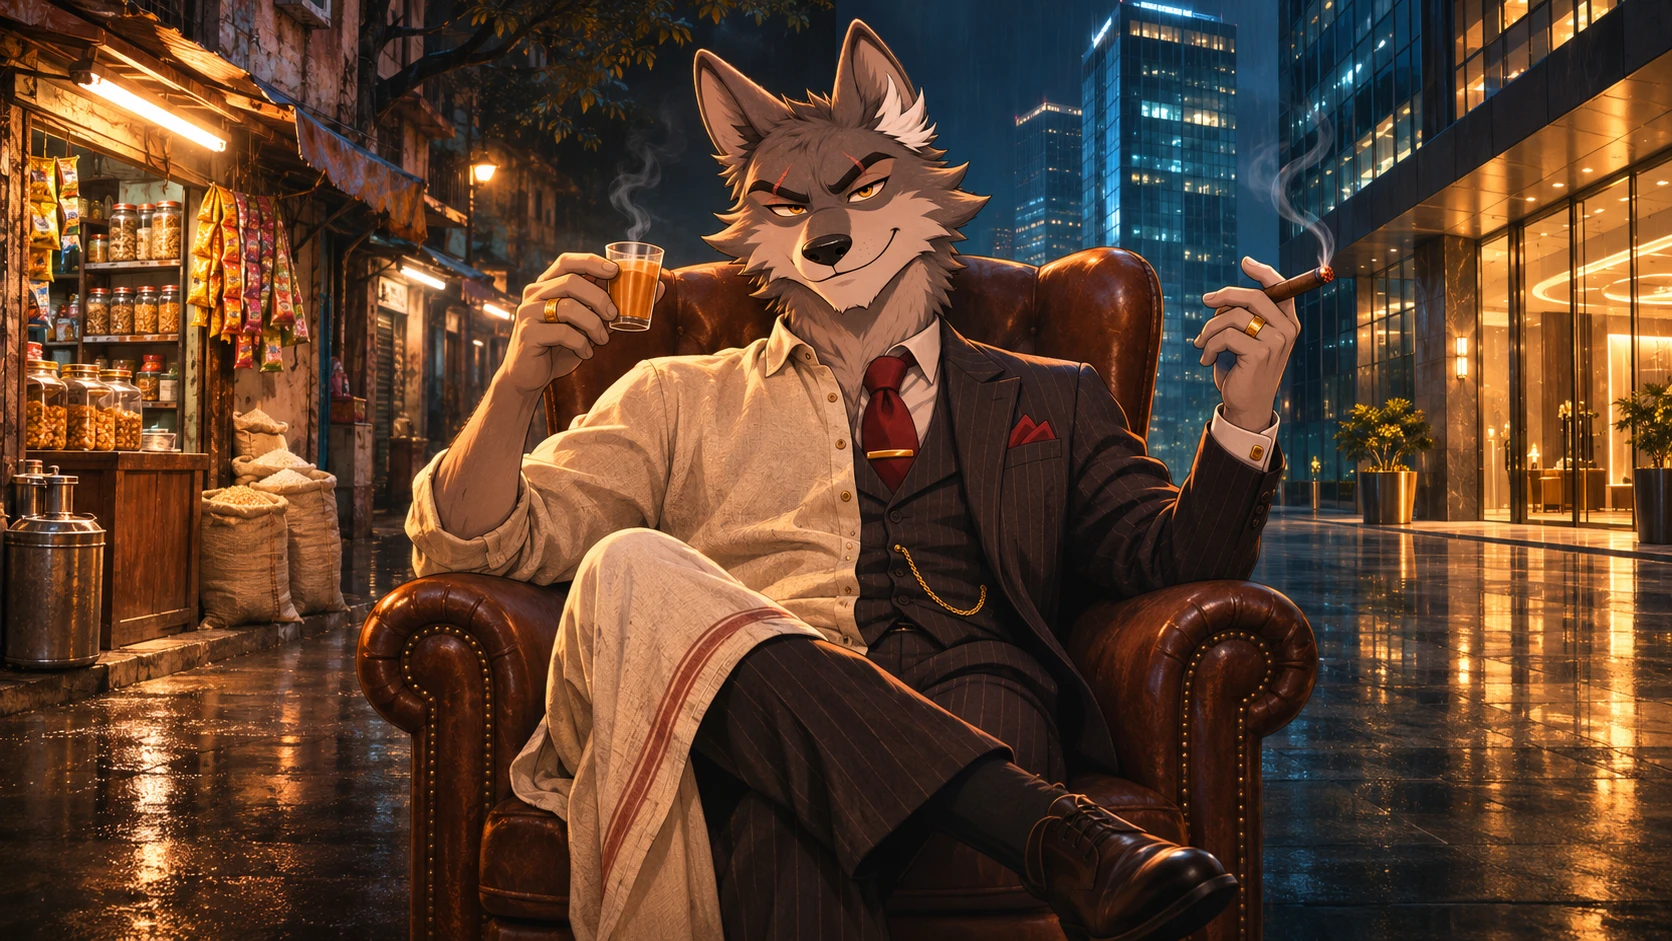
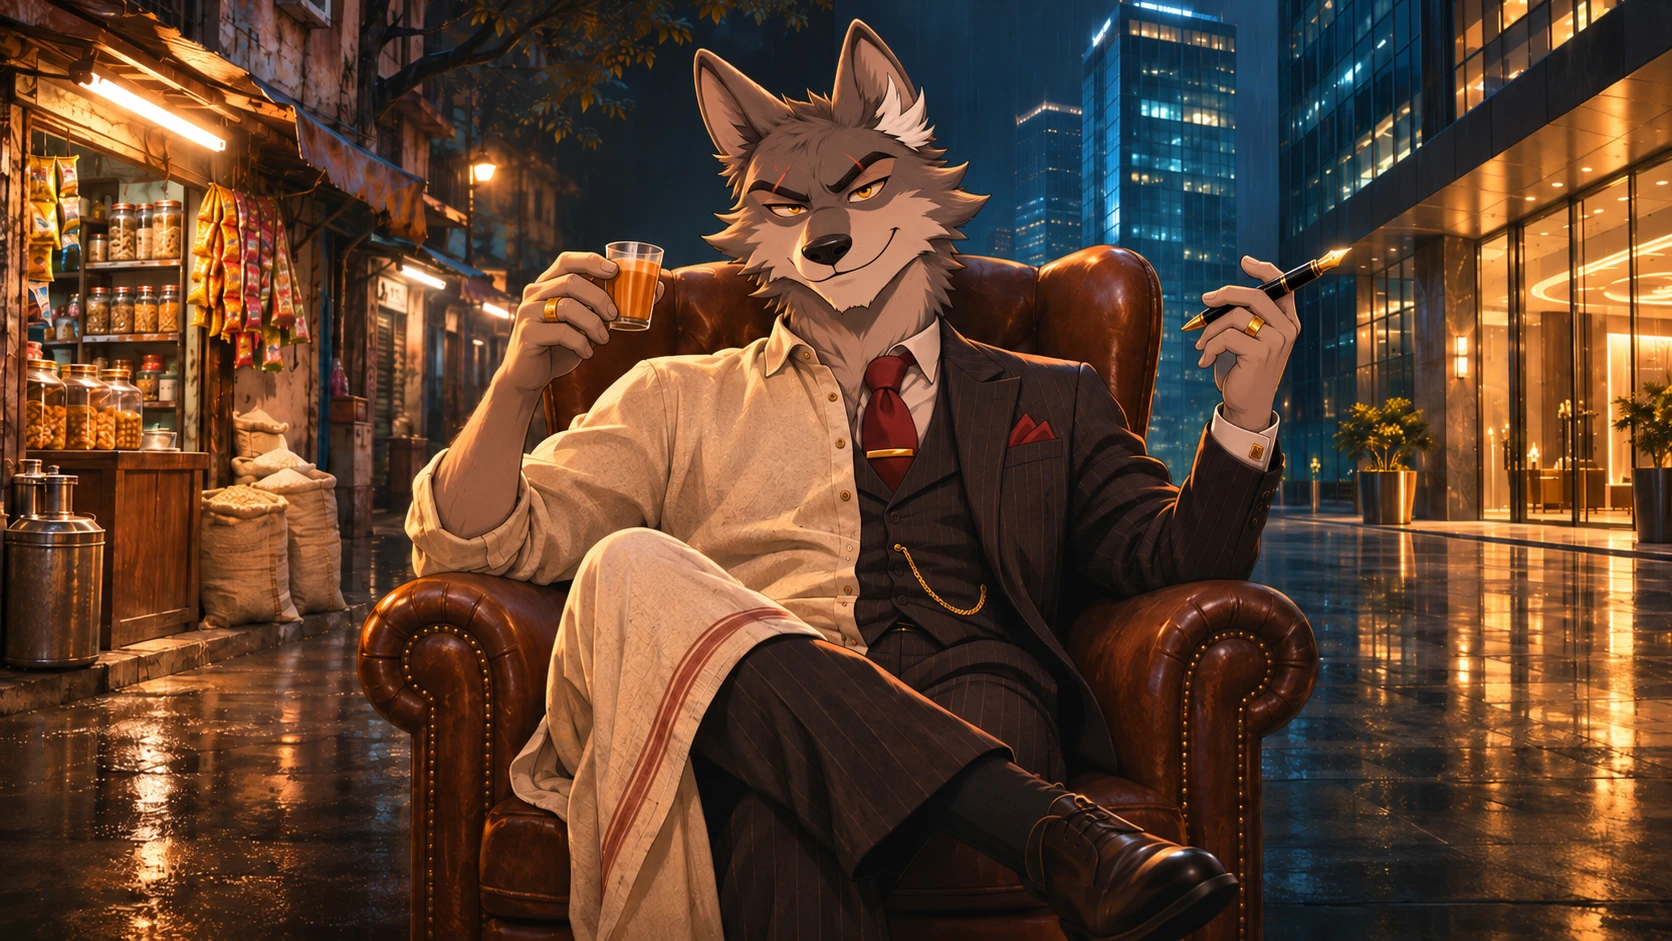
site: a fountain pen instead of the wolf's cigar
India's COTPA rules restrict showing tobacco in advertising, and the landing
page is our ad. Edited in the same ChatGPT chat, so only the hand changed:
the cigar and its smoke are gone and he holds a fountain pen, the boss about
to sign. Alt text and the image notes say so.

diff --git a/src/lib/brand.ts b/src/lib/brand.ts
@@ -40,7 +40,7 @@ export const SCENE_TALL = { width: 752, height: 940, widths: [480, 752] } as con
 
 export const SCENES = {
   empire: {
-    alt: "The wolf in a leather boss's chair, half in a shopkeeper's kurta with a glass of chai, half in a pinstripe suit with a cigar, kirana shops on one side and glass towers on the other",
+    alt: "The wolf in a leather boss's chair, half in a shopkeeper's kurta with a glass of chai, half in a pinstripe suit with a fountain pen, kirana shops on one side and glass towers on the other",
     focus: 0.5,
   },
   shop: { alt: "An empty boss's chair behind the counter of a kirana shop in morning light", focus: 0.5 },

diff --git a/content/brand/site/media.md b/content/brand/site/media.md
@@ -2,7 +2,7 @@
 
 The website's pictures (`/`). One idea runs through all five: the same leather boss's chair, the Hot Seat, in a
 real Indian place. The hero is Atheeb's idea: the wolf sits in it between a kirana street and the towers of big
-business, half in a shopkeeper's kurta with chai, half in his pinstripe suit with a cigar. The other four show the
+business, half in a shopkeeper's kurta with chai, half in his pinstripe suit with a fountain pen. The other four show the
 chair empty, waiting for the player. No archive picture fits, so each was generated with ChatGPT in the browser on
 Atheeb's sign-in (5 Nov 2026), following `docs/AUTHORING.md` step 5: no logos, no readable signs, no real person's
 likeness, no airline colours. The hero was made in the same chat as the wolf's poses, so he stays the same wolf.
